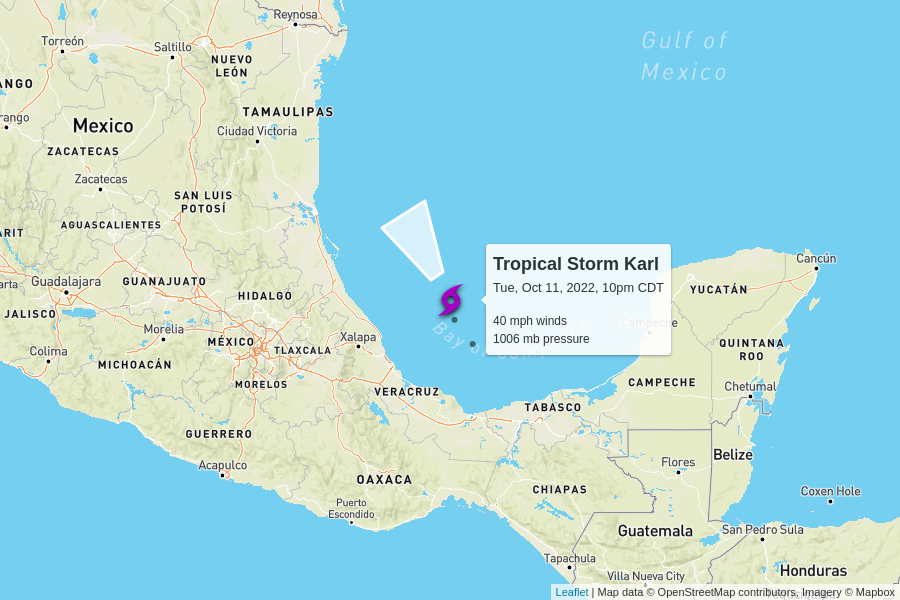
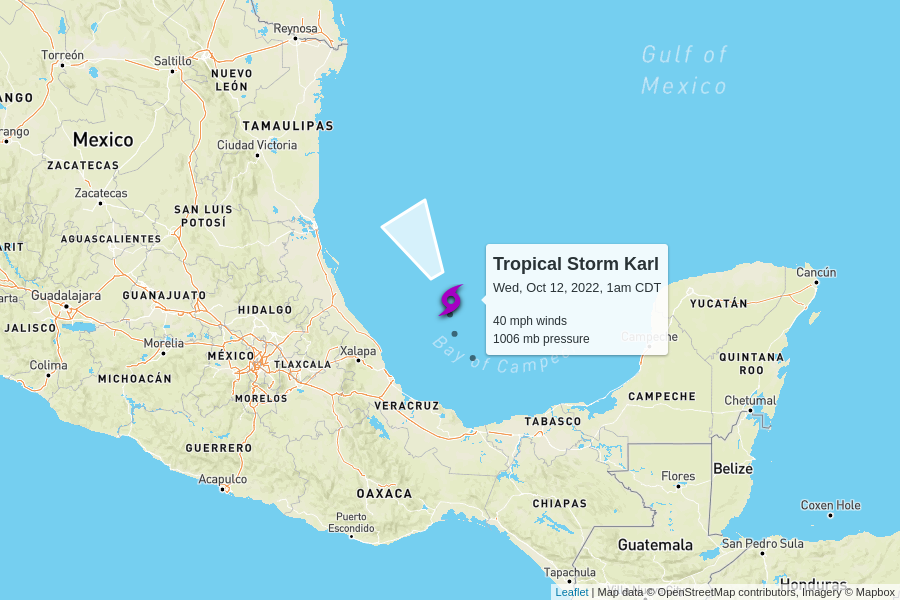
automatic update

diff --git a/docs/index.html b/docs/index.html
@@ -100,7 +100,7 @@
         <td colspan="6" class="storm category-0" >
           <h2>
             Tropical Storm Karl
-            <p class="updated">last updated <span data-time>2022-10-12T03:00:00.000Z</span></p>
+            <p class="updated">last updated <span data-time>2022-10-12T06:00:00.000Z</span></p>
           </h2>
         </td>
       </tr>
